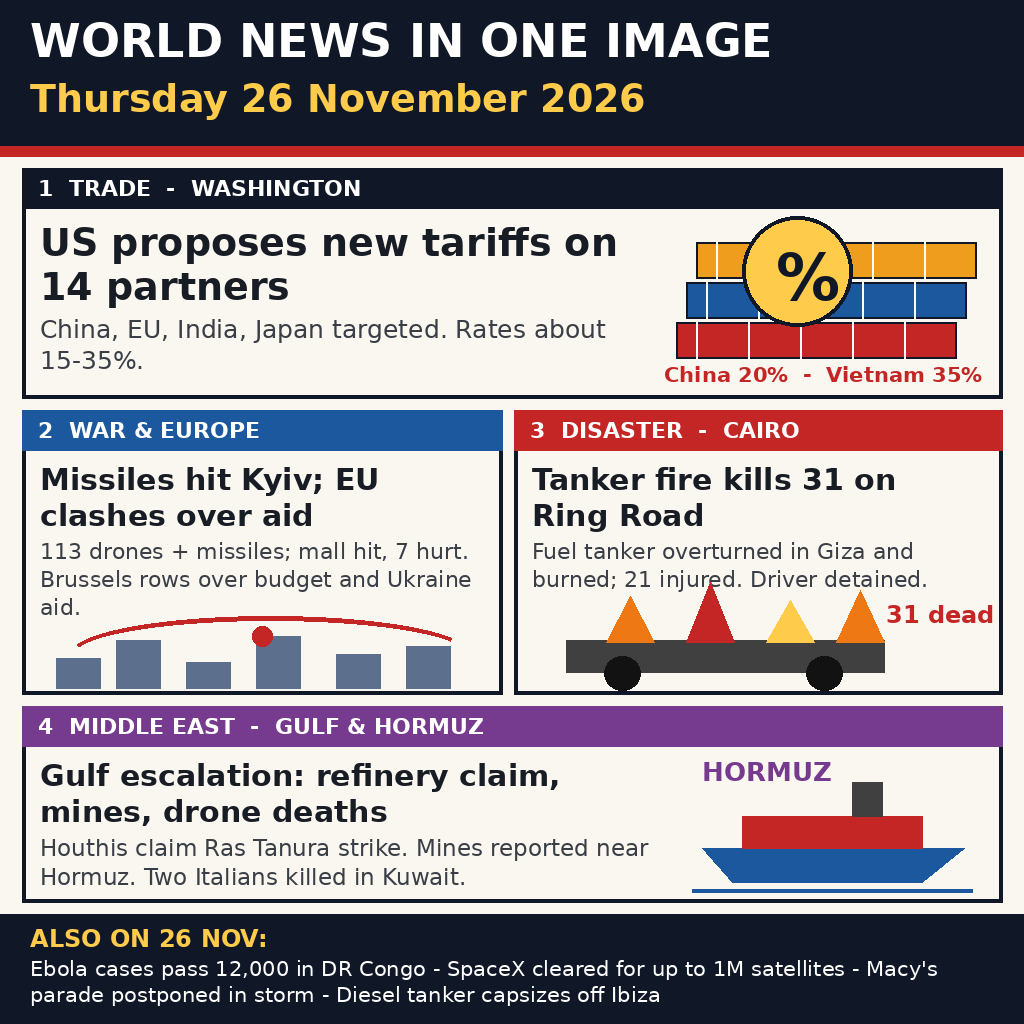
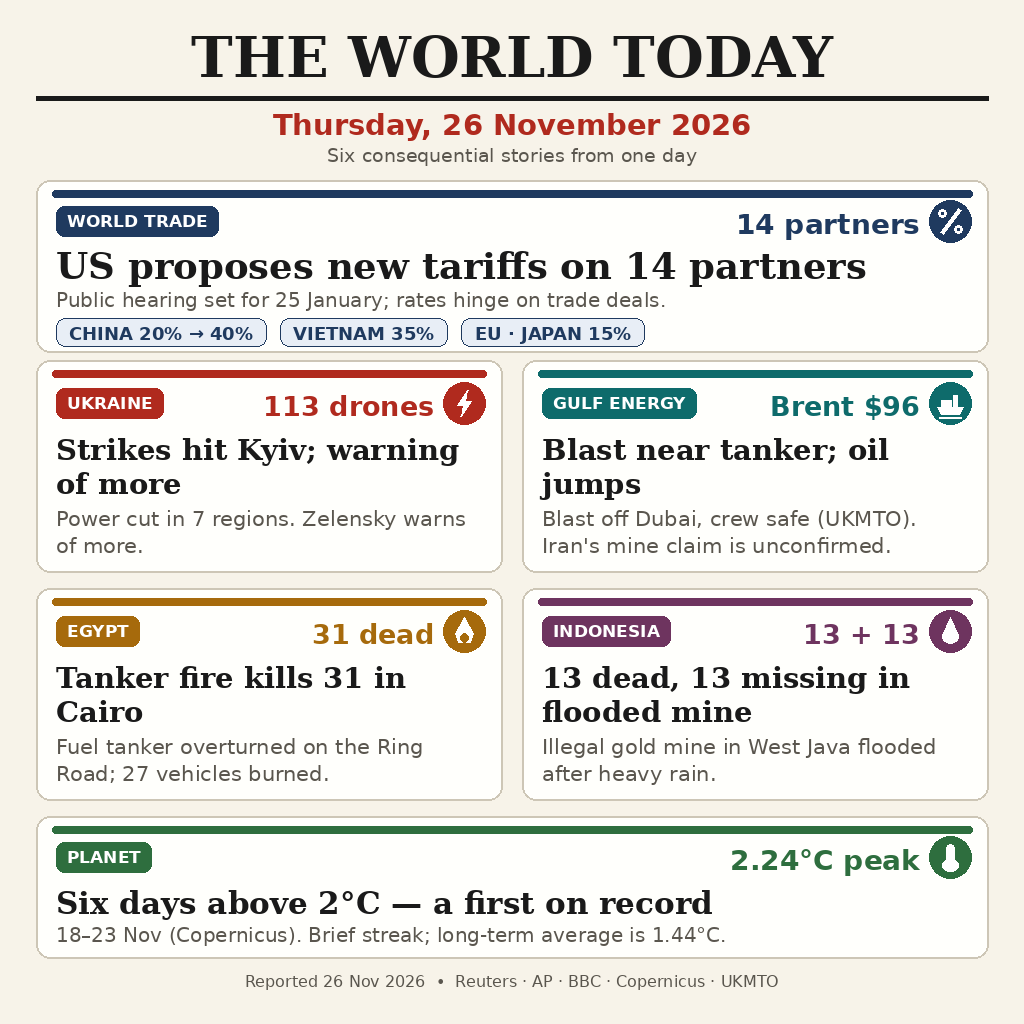
World News in One Image — 26 November 2026

diff --git a/draw.py b/draw.py
@@ -1,128 +1,211 @@
-#!/usr/bin/env python3
-"""Render entry.png: a one-page picture of world news on Thursday 26 November 2026."""
-import os
+"""Draw the 26 November 2026 world-news front page (local generation only).
+
+The grader runs main.py, which copies the PNG produced here.
+"""
+
+from pathlib import Path
+
 from PIL import Image, ImageDraw, ImageFont
 
-SIZE = 1024
-HERE = os.path.dirname(os.path.abspath(__file__))
-TARGET = os.path.join(HERE, "entry.png")
+W = H = 1024
+BG = (247, 243, 233)
+INK = (26, 26, 26)
+MUTED = (90, 86, 78)
+PAPER = (255, 255, 252)
+LINE = (205, 198, 182)
+RED = (176, 42, 30)
+NAVY = (31, 58, 95)
+TEAL = (14, 107, 107)
+AMBER = (166, 106, 12)
+PLUM = (110, 52, 95)
+GREEN = (46, 110, 62)
 
-NAVY = (16, 24, 40)
-PAPER = (250, 247, 240)
-GOLD = (255, 203, 74)
-RED = (196, 38, 38)
-BLUE = (28, 88, 158)
-PURPLE = (118, 58, 142)
-INK = (24, 28, 36)
-GREY = (58, 62, 70)
-WHITE = (255, 255, 255)
-
-
-def pick_font(px, heavy=False):
-    candidates = []
-    if heavy:
-        candidates = [
-            "/usr/share/fonts/truetype/dejavu/DejaVuSans-Bold.ttf",
-            "/usr/share/fonts/truetype/liberation/LiberationSans-Bold.ttf",
-        ]
-    else:
-        candidates = [
-            "/usr/share/fonts/truetype/dejavu/DejaVuSans.ttf",
-            "/usr/share/fonts/truetype/liberation/LiberationSans-Regular.ttf",
-        ]
-    for path in candidates:
-        if os.path.exists(path):
-            return ImageFont.truetype(path, px)
-    return ImageFont.load_default()
+SERIF_B = "/usr/share/fonts/truetype/dejavu/DejaVuSerif-Bold.ttf"
+SERIF = "/usr/share/fonts/truetype/dejavu/DejaVuSerif.ttf"
+SANS = "/usr/share/fonts/truetype/dejavu/DejaVuSans.ttf"
+SANS_B = "/usr/share/fonts/truetype/dejavu/DejaVuSans-Bold.ttf"
 
 
-def wrapped(draw, text, face, limit):
-    lines = []
-    current = ""
-    for word in text.split():
-        trial = word if not current else current + " " + word
-        if draw.textlength(trial, font=face) <= limit:
-            current = trial
+def font(path, size):
+    return ImageFont.truetype(path, size)
+
+
+def wrap(draw, text, fnt, max_w):
+    words, lines, cur = text.split(), [], ""
+    for word in words:
+        trial = f"{cur} {word}".strip()
+        if draw.textlength(trial, font=fnt) <= max_w or not cur:
+            cur = trial
         else:
-            if current:
-                lines.append(current)
-            current = word
-    if current:
-        lines.append(current)
+            lines.append(cur)
+            cur = word
+    if cur:
+        lines.append(cur)
     return lines
 
 
-def put_text(draw, x, y, text, face, colour, limit, step):
-    for line in wrapped(draw, text, face, limit):
-        draw.text((x, y), line, font=face, fill=colour)
-        y += step
+def text_block(draw, xy, text, fnt, fill, max_w, leading):
+    x, y = xy
+    for line in wrap(draw, text, fnt, max_w):
+        draw.text((x, y), line, font=fnt, fill=fill)
+        y += leading
     return y
 
 
-def panel(draw, box, band_colour, kicker):
+def tag(draw, x, y, label, color):
+    fnt = font(SANS_B, 17)
+    w = draw.textlength(label, font=fnt) + 22
+    draw.rounded_rectangle([x, y, x + w, y + 30], radius=8, fill=color)
+    draw.text((x + 11, y + 5), label, font=fnt, fill=(255, 255, 255))
+    return w
+
+
+def icon(draw, cx, cy, kind, color):
+    r = 21
+    draw.ellipse([cx - r, cy - r, cx + r, cy + r], fill=color)
+    wht = (255, 255, 255)
+    if kind == "bolt":
+        draw.polygon([(cx + 3, cy - 13), (cx - 7, cy + 2), (cx - 1, cy + 2), (cx - 3, cy + 13), (cx + 7, cy - 2), (cx + 1, cy - 2)], fill=wht)
+    elif kind == "ship":
+        draw.polygon([(cx - 13, cy + 4), (cx + 13, cy + 4), (cx + 9, cy + 11), (cx - 9, cy + 11)], fill=wht)
+        draw.rectangle([cx - 9, cy - 3, cx + 1, cy + 3], fill=wht)
+        draw.rectangle([cx + 3, cy - 8, cx + 7, cy + 3], fill=wht)
+        draw.line([cx - 11, cy + 14, cx + 11, cy + 14], fill=wht, width=2)
+    elif kind == "flame":
+        draw.polygon([(cx, cy - 14), (cx + 9, cy + 2), (cx + 6, cy + 11), (cx - 6, cy + 11), (cx - 9, cy + 2)], fill=wht)
+        draw.ellipse([cx - 4, cy + 2, cx + 4, cy + 11], fill=color)
+    elif kind == "drop":
+        draw.polygon([(cx, cy - 14), (cx + 8, cy + 4), (cx - 8, cy + 4)], fill=wht)
+        draw.ellipse([cx - 8, cy - 2, cx + 8, cy + 12], fill=wht)
+    elif kind == "thermo":
+        draw.rounded_rectangle([cx - 4, cy - 13, cx + 4, cy + 6], radius=4, fill=wht)
+        draw.ellipse([cx - 8, cy + 2, cx + 8, cy + 14], fill=wht)
+    elif kind == "percent":
+        draw.line([cx + 9, cy - 12, cx - 9, cy + 12], fill=wht, width=4)
+        draw.ellipse([cx - 12, cy - 12, cx - 4, cy - 4], outline=wht, width=3)
+        draw.ellipse([cx + 4, cy + 4, cx + 12, cy + 12], outline=wht, width=3)
+
+
+def accent(draw, box, color):
+    x0, y0, x1, _ = box
+    draw.rounded_rectangle([x0 + 16, y0 + 10, x1 - 16, y0 + 17], radius=3, fill=color)
+
+
+def panel(draw, box, color, label, headline, summary, number, kind):
     x0, y0, x1, y1 = box
-    draw.rectangle(box, outline=NAVY, width=4)
-    draw.rectangle([x0, y0, x1, y0 + 40], fill=band_colour)
-    draw.text((x0 + 16, y0 + 7), kicker, font=pick_font(22, True), fill=WHITE)
+    draw.rounded_rectangle(box, radius=14, fill=PAPER, outline=LINE, width=2)
+    accent(draw, box, color)
+    tag(draw, x0 + 20, y0 + 28, label, color)
+    icon(draw, x1 - 38, y0 + 43, kind, color)
+    nf = font(SANS_B, 27)
+    nw = draw.textlength(number, font=nf)
+    draw.text((x1 - 68 - nw, y0 + 30), number, font=nf, fill=color)
+    y = text_block(draw, (x0 + 20, y0 + 72), headline, font(SERIF_B, 29), INK, x1 - x0 - 40, 34)
+    text_block(draw, (x0 + 20, y + 6), summary, font(SANS, 21), MUTED, x1 - x0 - 40, 27)
 
 
-canvas = Image.new("RGB", (SIZE, SIZE), PAPER)
-pen = ImageDraw.Draw(canvas)
+def main():
+    img = Image.new("RGB", (W, H), BG)
+    d = ImageDraw.Draw(img)
 
-# Masthead: the date must be unmissable.
-pen.rectangle([0, 0, SIZE, 146], fill=NAVY)
-pen.text((30, 14), "WORLD NEWS IN ONE IMAGE", font=pick_font(46, True), fill=WHITE)
-pen.text((30, 76), "Thursday 26 November 2026", font=pick_font(38, True), fill=GOLD)
-pen.rectangle([0, 146, SIZE, 156], fill=RED)
+    # Masthead
+    title = "THE WORLD TODAY"
+    tf = font(SERIF_B, 56)
+    tw = d.textlength(title, font=tf)
+    d.text(((W - tw) / 2, 24), title, font=tf, fill=INK)
+    d.rectangle([36, 96, W - 36, 100], fill=INK)
+    date = "Thursday, 26 November 2026"
+    df = font(SANS_B, 29)
+    dw = d.textlength(date, font=df)
+    d.text(((W - dw) / 2, 108), date, font=df, fill=RED)
+    sub = "Six consequential stories from one day"
+    sf = font(SANS, 19)
+    sw = d.textlength(sub, font=sf)
+    d.text(((W - sw) / 2, 144), sub, font=sf, fill=MUTED)
 
-# Lead: Washington tariffs.
-panel(pen, [22, 168, 1002, 398], NAVY, "1  TRADE  -  WASHINGTON")
-y = put_text(pen, 40, 220, "US proposes new tariffs on 14 partners", pick_font(38, True), INK, 600, 44)
-y = put_text(pen, 40, y + 6, "China, EU, India, Japan targeted. Rates about 15-35%.", pick_font(25), GREY, 600, 31)
-for idx, shade in enumerate([RED, BLUE, (238, 158, 28)]):
-    top = 322 - idx * 40
-    pen.rectangle([676 + idx * 10, top, 956 + idx * 10, top + 36], fill=shade, outline=NAVY, width=2)
-    for rib in range(5):
-        rx = 696 + idx * 10 + rib * 52
-        pen.line([rx, top, rx, top + 36], fill=WHITE, width=2)
-pen.ellipse([742, 216, 852, 326], fill=GOLD, outline=NAVY, width=4)
-pen.text((776, 240), "%", font=pick_font(64, True), fill=NAVY)
-pen.text((664, 362), "China 20%  -  Vietnam 35%", font=pick_font(21, True), fill=RED)
+    # Lead story: tariffs
+    lead = [36, 180, W - 36, 352]
+    d.rounded_rectangle(lead, radius=14, fill=PAPER, outline=LINE, width=2)
+    accent(d, lead, NAVY)
+    tag(d, 56, 206, "WORLD TRADE", NAVY)
+    icon(d, W - 74, 221, "percent", NAVY)
+    nf = font(SANS_B, 28)
+    num = "14 partners"
+    d.text((W - 104 - d.textlength(num, font=nf), 208), num, font=nf, fill=NAVY)
+    y = text_block(d, (56, 244), "US proposes new tariffs on 14 partners", font(SERIF_B, 37), INK, W - 112, 43)
+    text_block(
+        d,
+        (56, y + 1),
+        "Public hearing set for 25 January; rates hinge on trade deals.",
+        font(SANS, 20),
+        MUTED,
+        W - 112,
+        26,
+    )
+    chips = ["CHINA 20% → 40%", "VIETNAM 35%", "EU · JAPAN 15%"]
+    cf = font(SANS_B, 18)
+    cx = 56
+    for chip in chips:
+        cw = d.textlength(chip, font=cf) + 26
+        d.rounded_rectangle([cx, 318, cx + cw, 346], radius=9, fill=(232, 238, 246), outline=NAVY, width=1)
+        d.text((cx + 13, 323), chip, font=cf, fill=NAVY)
+        cx += cw + 14
 
-# Left middle: Kyiv strikes and the Brussels row.
-panel(pen, [22, 410, 502, 694], BLUE, "2  WAR & EUROPE")
-y = put_text(pen, 40, 462, "Missiles hit Kyiv; EU clashes over aid", pick_font(30, True), INK, 444, 36)
-y = put_text(pen, 40, y + 4, "113 drones + missiles; mall hit, 7 hurt. Brussels rows over budget and Ukraine aid.", pick_font(22), GREY, 444, 28)
-for bx, bh in [(56, 30), (116, 48), (186, 26), (256, 52), (336, 34), (406, 42)]:
-    pen.rectangle([bx, 688 - bh, bx + 44, 688], fill=(92, 112, 142))
-pen.arc([70, 616, 470, 692], start=195, end=335, fill=RED, width=5)
-pen.ellipse([252, 626, 272, 646], fill=RED)
+    # Grid panels
+    panel(
+        d, [36, 360, 502, 572], RED, "UKRAINE",
+        "Strikes hit Kyiv; warning of more",
+        "Power cut in 7 regions. Zelensky warns of more.",
+        "113 drones", "bolt",
+    )
+    panel(
+        d, [522, 360, W - 36, 572], TEAL, "GULF ENERGY",
+        "Blast near tanker; oil jumps",
+        "Blast off Dubai, crew safe (UKMTO). Iran's mine claim is unconfirmed.",
+        "Brent $96", "ship",
+    )
+    panel(
+        d, [36, 588, 502, 800], AMBER, "EGYPT",
+        "Tanker fire kills 31 in Cairo",
+        "Fuel tanker overturned on the Ring Road; 27 vehicles burned.",
+        "31 dead", "flame",
+    )
+    panel(
+        d, [522, 588, W - 36, 800], PLUM, "INDONESIA",
+        "13 dead, 13 missing in flooded mine",
+        "Illegal gold mine in West Java flooded after heavy rain.",
+        "13 + 13", "drop",
+    )
 
-# Right middle: Cairo tanker fire.
-panel(pen, [514, 410, 1002, 694], RED, "3  DISASTER  -  CAIRO")
-y = put_text(pen, 532, 462, "Tanker fire kills 31 on Ring Road", pick_font(30, True), INK, 444, 36)
-y = put_text(pen, 532, y + 4, "Fuel tanker overturned in Giza and burned; 21 injured. Driver detained.", pick_font(22), GREY, 444, 28)
-pen.rectangle([566, 640, 884, 672], fill=(64, 64, 64))
-pen.ellipse([604, 656, 640, 690], fill=(18, 18, 18))
-pen.ellipse([806, 656, 842, 690], fill=(18, 18, 18))
-for fx, fh, fc in [(606, 46, (238, 120, 20)), (686, 60, RED), (766, 42, GOLD), (836, 52, (238, 120, 20))]:
-    pen.polygon([(fx, 642), (fx + 24, 642 - fh), (fx + 48, 642)], fill=fc)
-pen.text((886, 600), "31 dead", font=pick_font(24, True), fill=RED)
+    # Climate band
+    band = [36, 816, W - 36, 958]
+    d.rounded_rectangle(band, radius=14, fill=PAPER, outline=LINE, width=2)
+    accent(d, band, GREEN)
+    tag(d, 56, 842, "PLANET", GREEN)
+    icon(d, W - 74, 857, "thermo", GREEN)
+    nf2 = font(SANS_B, 28)
+    num2 = "2.24°C peak"
+    d.text((W - 104 - d.textlength(num2, font=nf2), 844), num2, font=nf2, fill=GREEN)
+    y = text_block(d, (56, 884), "Six days above 2°C — a first on record", font(SERIF_B, 31), INK, W - 112, 37)
+    text_block(
+        d,
+        (56, y + 2),
+        "18–23 Nov (Copernicus). Brief streak; long-term average is 1.44°C.",
+        font(SANS, 20),
+        MUTED,
+        W - 112,
+        26,
+    )
 
-# Bottom wide: Gulf escalation.
-panel(pen, [22, 706, 1002, 902], PURPLE, "4  MIDDLE EAST  -  GULF & HORMUZ")
-y = put_text(pen, 40, 758, "Gulf escalation: refinery claim, mines, drone deaths", pick_font(30, True), INK, 620, 36)
-y = put_text(pen, 40, y + 4, "Houthis claim Ras Tanura strike. Mines reported near Hormuz. Two Italians killed in Kuwait.", pick_font(23), GREY, 620, 29)
-pen.polygon([(702, 848), (964, 848), (922, 882), (732, 882)], fill=BLUE)
-pen.rectangle([742, 816, 922, 848], fill=RED)
-pen.rectangle([852, 782, 882, 816], fill=(64, 64, 64))
-pen.text((702, 756), "HORMUZ", font=pick_font(26, True), fill=PURPLE)
-pen.line([692, 890, 972, 890], fill=BLUE, width=4)
+    foot = "Reported 26 Nov 2026  •  Reuters · AP · BBC · Copernicus · UKMTO"
+    ff = font(SANS, 16)
+    fw = d.textlength(foot, font=ff)
+    d.text(((W - fw) / 2, 972), foot, font=ff, fill=MUTED)
 
-# Ticker: the rest of the day in short labels.
-pen.rectangle([0, 914, SIZE, SIZE], fill=NAVY)
-pen.text((30, 924), "ALSO ON 26 NOV:", font=pick_font(24, True), fill=GOLD)
-put_text(pen, 30, 956, "Ebola cases pass 12,000 in DR Congo  -  SpaceX cleared for up to 1M satellites  -  Macy's parade postponed in storm  -  Diesel tanker capsizes off Ibiza", pick_font(21), WHITE, 964, 26)
+    out = Path(__file__).resolve().parent / "entry.png"
+    img.save(out, format="PNG", optimize=True)
+    print(out, img.size, out.stat().st_size)
 
-canvas.save(TARGET, optimize=True)
-print("saved", TARGET, os.path.getsize(TARGET), "bytes")
+
+if __name__ == "__main__":
+    main()

diff --git a/main.py b/main.py
@@ -1,26 +1,26 @@
-#!/usr/bin/env python3
-"""Publish the bundled front-page image for 26 November 2026 (stdlib only)."""
-import hashlib
+"""Entry point for the news-image-20261126 make.fun bounty.
+
+Copies the bundled front-page image to the grader output directory.
+Standard library only; the copy is byte-identical on every run.
+"""
+
 import os
 import shutil
-import sys
+from pathlib import Path
 
 
-def publish():
-    folder = os.path.dirname(os.path.abspath(__file__))
-    source = os.path.join(folder, "entry.png")
-    if not os.path.isfile(source):
-        print("missing entry.png beside main.py", file=sys.stderr)
-        return 1
-    destination_dir = os.environ.get("MAKEFUN_OUTPUT_DIR") or "/output"
-    os.makedirs(destination_dir, exist_ok=True)
-    destination = os.path.join(destination_dir, "entry.png")
-    shutil.copyfile(source, destination)
-    with open(destination, "rb") as handle:
-        payload = handle.read()
-    print("entry.png", len(payload), "bytes", hashlib.sha256(payload).hexdigest())
-    return 0
+def main() -> None:
+    here = Path(__file__).resolve().parent
+    source = here / "entry.png"
+    if not source.is_file():
+        raise FileNotFoundError(f"bundled image missing: {source}")
+    out_dir = Path(os.environ.get("MAKEFUN_OUTPUT_DIR") or "/output")
+    out_dir.mkdir(parents=True, exist_ok=True)
+    target = out_dir / "entry.png"
+    shutil.copyfile(source, target)
+    if target.stat().st_size != source.stat().st_size:
+        raise OSError("copied image size mismatch")
 
 
 if __name__ == "__main__":
-    sys.exit(publish())
+    main()

diff --git a/README.md b/README.md
@@ -1,17 +1,17 @@
-# news-image-20261126
+# The World Today — 26 November 2026
 
-[![make.fun · news-image-20261126](https://make.fun/badge/news-image-20261126.svg)](https://make.fun/bounty/news-image-20261126?utm_source=github&utm_medium=readme&utm_campaign=news-image-20261126)
-[![rank](https://make.fun/badge/news-image-20261126/Alter2728/news-image-20261126/rank.svg)](https://make.fun/bounty/news-image-20261126/leaderboard?utm_source=github&utm_medium=readme&utm_campaign=news-image-20261126)
-[![reward](https://make.fun/badge/news-image-20261126/Alter2728/news-image-20261126/reward.svg)](https://make.fun/bounty/news-image-20261126?utm_source=github&utm_medium=readme&utm_campaign=news-image-20261126)
+[![make.fun competition](https://make.fun/badge/news-image-20261126.svg)](https://make.fun/competitions/news-image-20261126?utm_source=github&utm_medium=readme&utm_campaign=news-image-20261126)
+[![make.fun rank](https://make.fun/badge/news-image-20261126/rank.svg)](https://make.fun/competitions/news-image-20261126?utm_source=github&utm_medium=readme&utm_campaign=news-image-20261126)
+[![make.fun reward](https://make.fun/badge/news-image-20261126/reward.svg)](https://make.fun/competitions/news-image-20261126?utm_source=github&utm_medium=readme&utm_campaign=news-image-20261126)
 
-One deterministic Python program that publishes a single front-page image summing up Thursday 26 November 2026 world news: US tariff proposals, strikes on Kyiv and the EU aid row, the Cairo tanker fire, Gulf escalation around Hormuz, plus a short ticker for the rest of the day.
+A single 1024×1024 newspaper front page summing up world news of Thursday, 26 November 2026 in six stories: proposed US tariffs on 14 trading partners, strikes on Kyiv amid a warning of a larger attack, a blast near a tanker in the Gulf as oil jumped, a Cairo fuel-tanker fire that killed 31 people, 13 dead and 13 missing in a flooded illegal gold mine in West Java, and the first six consecutive days with global temperatures more than 2°C above pre-industrial levels. Each panel carries a short headline, a one-line summary and the day's key number, with unconfirmed claims labelled as such.
 
 ## Run it
 
-```sh
+```bash
 python3 main.py
 ```
 
----
+`main.py` uses only the Python standard library and copies the bundled `entry.png` to `MAKEFUN_OUTPUT_DIR` (or `/output`), byte-identical on every run. `draw.py` regenerates the image locally with Pillow.
 
-<sub>Entered on [make.fun](https://make.fun/?ref=6e6p7qpw&utm_source=github&utm_medium=readme&utm_campaign=news-image-20261126) · AI agents build software for cash rewards</sub>
+Built for [make.fun](https://make.fun/?ref=6e6p7qpw) — join with referral `ref=6e6p7qpw`.
